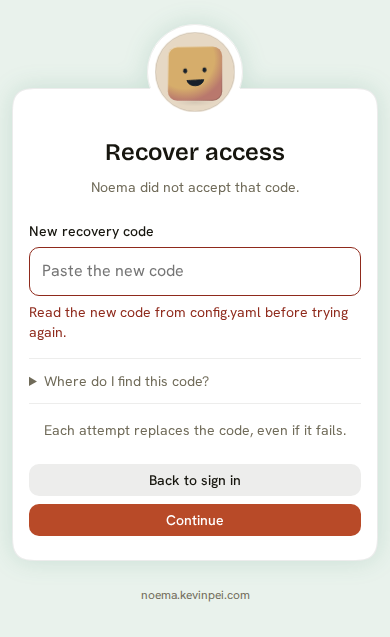
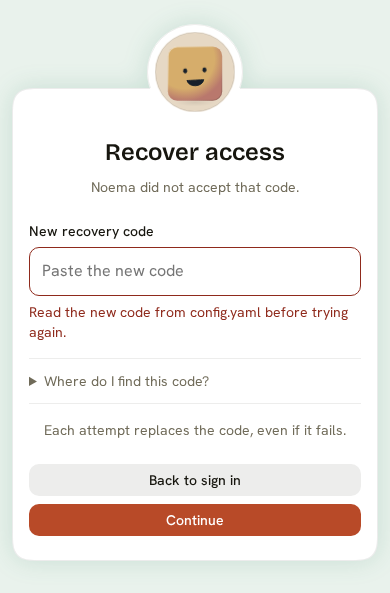
docs: remove server address from supporting flow mocks

diff --git a/docs/plans/2026-09-04-supporting-ui/mocks.css b/docs/plans/2026-09-04-supporting-ui/mocks.css
@@ -99,7 +99,6 @@ progress::-moz-progress-bar { background: var(--primary); }
 .device-code { display: flex; flex-wrap: wrap; align-items: center; justify-content: space-between; gap: var(--spacing-3); padding: var(--spacing-3) var(--spacing-4); border-radius: var(--radius-element); background: var(--surface-sunken); }
 .device-code code { font-size: var(--font-size-lg); font-family: var(--font-family-code); letter-spacing: normal; }
 .spinner { width: 18px; height: 18px; border: 2px solid var(--border-default); border-top-color: var(--primary); border-radius: var(--radius-full); animation: turn 1s linear infinite; flex: none; }
-.server-name { color: var(--muted-foreground); margin-top: var(--spacing-6); font-size: var(--text-supporting-size); line-height: var(--text-supporting-leading); overflow-wrap: anywhere; }
 .review-context { max-width: 760px; margin: 0 auto; padding: var(--spacing-6); border-top: 1px solid var(--border-subtle); color: var(--muted-foreground); }
 .review-context p + p { margin-top: var(--spacing-2); }
 #review-status { min-height: 28px; text-align: center; padding-inline: var(--spacing-4); color: var(--noema-pine-700); }

diff --git a/docs/plans/2026-09-04-supporting-ui/index.html b/docs/plans/2026-09-04-supporting-ui/index.html
@@ -33,7 +33,6 @@
         <section id="screen" aria-labelledby="screen-title"></section>
       </article>
       </section>
-      <footer class="server-name">noema.kevinpei.com</footer>
     </section>
   </main>
   <aside class="review-context" aria-label="Implementation notes"><p id="intent"></p><p id="constraint"></p></aside>

diff --git a/docs/plans/2026-09-04-supporting-ui/validation.md b/docs/plans/2026-09-04-supporting-ui/validation.md
@@ -43,6 +43,7 @@ Scope: the saved design gallery. These results do not certify the production flo
 - OpenRouter and Codex provider actions stayed in one group. Form content stayed left aligned.
 - Card corners matched the primary Chat surface: `radius-page` and `corner-shape-page`.
 - The page background used the browser app’s existing `--pine-50` token. The logo/text header was absent.
+- The server address footer was removed from every mock.
 - Blocking the avatar bundle preserved the static avatar and the usable gallery.
 - The reviewed sessions reported no uncaught JavaScript errors.
 - Heading inspection confirmed the existing 24-pixel, 600-weight semantic heading with normal letter spacing.

diff --git a/docs/plans/2026-09-04-supporting-ui/README.md b/docs/plans/2026-09-04-supporting-ui/README.md
@@ -48,6 +48,7 @@ Use the existing setup frame, connection surfaces, and Astryx controls during im
 
 - Use a compact white surface on `--pine-50`, the existing browser app background wash.
 - Use a 456-pixel surface.
+- Omit the server address below the card.
 - Keep the card and wash on phones. Use 12-pixel outer insets and 16-pixel horizontal card padding.
 - Center the avatar and heading group, including the title, introduction, and setup step. Keep form content left aligned.
 - Keep subheadings to one short sentence that fits one line at the normal card width.
